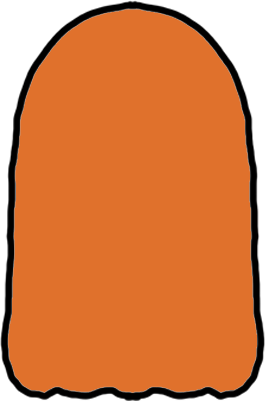
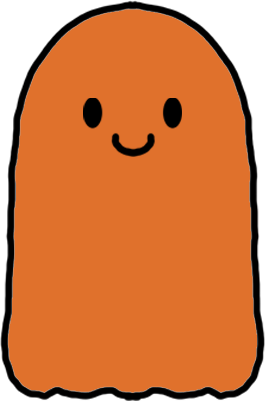
[Update] 캐릭터 악세사리 수정
캐릭터 몸 얼굴 함께 넣음
코드 수정

Changed region(s): [[0.6038, 0.2394, 0.6943, 0.3292], [0.3019, 0.2394, 0.3925, 0.3292], [0.4226, 0.3292, 0.6038, 0.389]]

diff --git a/FE/src/components/page/EditCharacter.js b/FE/src/components/page/EditCharacter.js
@@ -26,67 +26,78 @@ const charNum = {
   3: 'yellow',
   4: 'orange',
   5: 'red',
-  6: 'signature',
+  6: 'primary',
 }
-// 해야할 것 : 캐릭터 몸 색상 변경하기(눈은 해둠), 캐릭터 색상 버튼에 value 값들 숫자로 변경한 후 숫자에 맞는 value값이 변경값에 들어갈 수 있도록
+// 해야할 것 :  캐릭터 색상 버튼에 value 값들 숫자로 변경한 후 숫자에 맞는 value값이 변경값에 들어갈 수 있도록
 // setAcc, setChar 에 들어간 정보 서버로 보내서 DB에 저장시키기 (되는지 확인 후 캐릭터 프로필 열 때 정보 보이는지 확인)
 // 취소, 저장버튼 눌렀을 때 동작 . 취소 -> EditProfile, 현재 정보를 저장하지 않고 나가시겠습니까? 저장 -> 서버로 보내고 alert 정상적으로 저장되었습니다 띄우기
 
-// const accNum = {
-//   nothing: 0,
-//   note: 1,
-//   wings: 2,
-//   boots: 3,
-//   hair: 4,
-//   papers: 5,
-//   mask: 6,
-//   smile: 7,
-//   apple: 8,
-// }
+const accNum = {
+    0: 'nothing',
+    1: 'note',
+    2: 'wings',
+    3: 'boots',
+    4: 'hair',
+    5: 'paper',
+    6: 'mask',
+    7: 'smile',
+    8: 'apple'
+}
 
 export default function EditCharacter() {
   const user = useSelector(state => state.user.info);
   // togglebutton 용
   const [choose, setChoose] = React.useState(true);
   const [char, setChar] = React.useState(0);
+  const [bodyColor, setBodyColor] = React.useState('');
+  const [armColor, setArmColor] = React.useState('');
   const [acc, setAcc] = React.useState(0);
 
   // 기존 캐릭터 정보 가져오기
   useEffect(() => {
+    console.log(user);
     customedCharacter(user?.idTag, characterLoadSuccess, characterLoadFail);
   }, [user])
   
   // 캐릭터 정보 불러오기 성공 시 - 색상 가져오기, 악세사리 정보 가져오기
   function characterLoadSuccess(res) {
-    setChar(res.data.character);
-    setAcc(res.data.acc);
-  }
+    const nowColor = res.data.character
+    const nowAcc = res.data.acc
+    const userId = res.data.idTag
+    setBodyColor('body_' + charNum[nowColor] + '.png');
+    setArmColor('arm_' + charNum[nowColor] + '.png');
+    setAcc(accNum[nowAcc] + '.png');
+  } 
   
   function characterLoadFail(err) {
     console.log("캐릭터 정보 불러오기 실패", err);
     // 불러오기 실패 후 가장 기본 캐릭터 모습으로 보여주기
     // 기본 캐릭터 정보 캐릭터 색상 하양, 아무것도 액세서리 착용하지 않음 
     characterLoadFail.defaultProps = {
-      character: 0,
-      acc: 0,
+      setArmColor: 'arm_default.png',
+      setBodyColor: 'body_default.png',
     }
   }
   
-
+  
   // 캐릭터 색상 선택 시 값이 전달됨
   function pickColor({char}) {
     return () => {
-      const armColor = `arm_${char}`
-      const bodyColor = `body_${char}`
       setChar(char);
-      console.log(armColor, bodyColor)
+      setArmColor('arm_'+char+'.png');
+      setBodyColor('body_'+char+'.png')
     }
   }
   
   function pickAcc({acc}) {
     return () => {
-      setAcc(acc)
+      setAcc(acc);
     }
+  }
+  
+  function changeConfirm(userId, acc, char) {
+    changeCharacter(userId, acc, char);
+    console.log(userId, acc, char)
   }
     
   return (
@@ -94,7 +105,7 @@ export default function EditCharacter() {
       <Box sx={{ ml: 2 }}>
         <Box sx={{ mt: 1 }}>
           <TextStyle size="large" variant="black">
-            🎨 캐릭터 꾸미기
+            🔃 내 캐릭터 변경
           </TextStyle>
         </Box>
         <Box sx={{ my: 0.5, mr: 2 }}>
@@ -102,7 +113,7 @@ export default function EditCharacter() {
         </Box>
         <Box>
           <TextStyle size="small" variant="black">
-            나만의 캐릭터를 꾸며보아요
+            색상/소품 선택 후 저장버튼을 터치하세요
           </TextStyle>
         </Box>
       </Box>
@@ -119,33 +130,30 @@ export default function EditCharacter() {
               {/* 해당 부분 코드에서 캐릭터의 값을 받아와 보여지도록 해야한다. */}
               {/* 등 위치 (날개) */}
               { acc === 2 &&
-              <Partition sx={{ mb:4, position:"absolute", height:70, width:250, zIndex:9 }} src="death_wing.png"/>}
-              <Box sx={{ display:"flex", flexDirection:"column", alignItems:"center", position:"absolute"}}>
-                <Partition sx={{ height:'auto', width:120, zIndex:10 }} src="/body_default.png"/>
+              <Partition sx={{ mb:4, position:"absolute", height:70, width:250, zIndex:9 }} src="wings.png"/>}
+              <Box sx={{ display:"flex", flexDirection:"column", alignItems:"center", position:"absolute"}}>         
+                <Partition sx={{ height:'auto', width:120, zIndex:10 }} src={bodyColor}/>
               </Box>
               {/* 팔, 머리 위치  (악보, 데스노트, 사과, 가발, 부츠) */}
               { acc === 1 &&
-              <Partition sx={{ mt:5, position:"absolute", height:"auto", width:35, zIndex:12 }} src="death_note.png"/>}
+              <Partition sx={{ mt:5, position:"absolute", height:"auto", width:35, zIndex:12 }} src="note.png"/>}
               { acc === 3 &&
-              <Partition sx={{ mb:24, position:"absolute", height:"auto", width:60, zIndex:12 }} src="kinky_boots.png"/>}
+              <Partition sx={{ mb:24, position:"absolute", height:"auto", width:60, zIndex:12 }} src="boots.png"/>}
               { acc === 4 &&
-              <Partition sx={{ mb:13, position:"absolute", height:"auto", width:130, zIndex:12 }} src="mozart_hair.png"/>}
+              <Partition sx={{ mb:13, position:"absolute", height:"auto", width:130, zIndex:12 }} src="hair.png"/>}
               { acc === 5 &&
-              <Partition sx={{ mt:5, position:"absolute", height:"auto", width:35, zIndex:12 }} src="mozart_paper.png"/>}
+              <Partition sx={{ mt:5, position:"absolute", height:"auto", width:35, zIndex:12 }} src="paper.png"/>}
               { acc === 8 &&
-              <Partition sx={{ mt:4.5, position:"absolute", height:"auto", width:45, zIndex:12 }} src="death_apple.png"/>}
+              <Partition sx={{ mt:4.5, position:"absolute", height:"auto", width:45, zIndex:12 }} src="apple.png"/>}
               <Box sx={{ position:"absolute", display:"flex", flexDirection:"column", alignItems:"center"}}>
-              { char !== "black" &&
-                <Partition sx={{ height:'auto', width:50, zIndex:11 }} src="/face_default.png"/>}
-              { char === "black" &&
-                <Partition sx={{ height:'auto', width:50, zIndex:11 }} src="/face_for_dark.png"/>}
-                <Partition sx={{ mt:2, width: 55, height:'', zIndex:13 }} src="/arm_default.png"/>
+              { char && 
+                <Partition sx={{ mt:2, width: 55, height:'', zIndex:13 }} src={armColor}/> }
               </Box>
               {/* 얼굴 위치 (가면, 웃는남자) */}
               { acc === 6 &&
-              <Partition sx={{ mr:6, mb:7, position:"absolute", height:"auto", width:55, zIndex:12 }} src="opera_mask.png"/>}
+              <Partition sx={{ mr:6, mb:10, position:"absolute", height:"auto", width:50, zIndex:12 }} src="mask.png"/>}
               { acc === 7 &&
-              <Partition sx={{ mb:3.7, position:"absolute", height:"auto", width:60, zIndex:12 }} src="smileman.png"/>}
+              <Partition sx={{ mb:7.2, position:"absolute", height:"auto", width:50, zIndex:12 }} src="smile.png"/>}
             </Box>
           </Box>
         </Box>
@@ -173,7 +181,7 @@ export default function EditCharacter() {
               <CircleIcon sx={{ fontSize: 80, color: "#a63d36" }} onClick={ pickColor({ char:'red' }) } />
             </Box>
             <Box sx={{ ml: 0.5 }}>
-              <CircleIcon sx={{ fontSize: 80, color: "#e37373" }} onClick={ pickColor({ char:'signature' }) } />
+              <CircleIcon sx={{ fontSize: 80, color: "#e37373" }} onClick={ pickColor({ char:'primary' }) } />
             </Box>
           </Box>
         )}
@@ -183,25 +191,25 @@ export default function EditCharacter() {
           <Box sx={{ width: 250, height: 250, backgroundColor: "skyblue", p: 2, borderRadius: 5 }}>
             <Box sx={{ display: "flex", justifyContent: "center", alignItems: "center" }}>
               <Box sx={{ width:60, height:60, border: '1px dashed grey', borderRadius: 2, mr: 1 }} onClick={ pickAcc({acc: 0}) } />
-              <Accessory src="/death_note.png" onClick={ pickAcc({acc: 1}) } />
-              <Accessory src="/death_wing.png" onClick={ pickAcc({acc: 2}) } />
+              <Accessory src="/note.png" onClick={ pickAcc({acc: 1}) } />
+              <Accessory src="/wings.png" onClick={ pickAcc({acc: 2}) } />
             </Box>
             <Box sx={{ display: "flex", justifyContent: "center", alignItems: "center" }}>
-              <Accessory src="/kinky_boots.png" onClick={ pickAcc({acc: 3}) } />
-              <Accessory src="/mozart_hair.png" onClick={ pickAcc({acc: 4}) } />
-              <Accessory src="/mozart_paper.png" onClick={ pickAcc({acc: 5}) } />
+              <Accessory src="/boots.png" onClick={ pickAcc({acc: 3}) } />
+              <Accessory src="/hair.png" onClick={ pickAcc({acc: 4}) } />
+              <Accessory src="/paper.png" onClick={ pickAcc({acc: 5}) } />
             </Box>
             <Box sx={{ display: "flex", justifyContent: "center", alignItems: "center" }}>
-              <Accessory src="/opera_mask.png" onClick={ pickAcc({acc: 6}) } />
-              <Accessory src="/smileman.png" onClick={ pickAcc({acc: 7}) } />
-              <Accessory src="/death_apple.png" onClick={ pickAcc({acc: 8})}/>
+              <Accessory src="/mask.png" onClick={ pickAcc({acc: 6}) } />
+              <Accessory src="/smile.png" onClick={ pickAcc({acc: 7}) } />
+              <Accessory src="/apple.png" onClick={ pickAcc({acc: 8})}/>
             </Box>
           </Box>
         )}
         </Box>
       <Box sx={{ display:"flex", justifyContent:"center" }}> 
         <ButtonStyle size="medium" variant="grey">취소</ButtonStyle>
-        <ButtonStyle size="medium" variant="primary">저장</ButtonStyle>
+        <ButtonStyle size="medium" variant="primary" onClick={ changeConfirm } >저장</ButtonStyle>
       </Box>
     </Box>
   );

diff --git a/FE/src/apis/item.js b/FE/src/apis/item.js
@@ -1,13 +1,13 @@
 import api from "./api";
 
 // 현재 캐릭터의 모습에서 다른 모습으로 변경함 - 수정 필요 한 번에 묶어서 보내야함
-function changeCharacter(idTag, params, success, fail) {
-  api.post("item/change", {idTag: idTag, params: params}).then(success).catch(fail);
+function changeCharacter(idTag, acc, char, success, fail) {
+  api.post("item/change", {idTag: idTag, acc_id: acc, char_id: char }).then(success).catch(fail);
 }
 
 // 현재 캐릭터의 모습을 가져옴
 function customedCharacter(idTag, success, fail) {
-  api.get(`member/deco/${idTag}`).then(success).catch(fail);
+  api.get("member/deco/"+`${idTag}`).then(success).catch(fail);
 }
 
 export { changeCharacter, customedCharacter };
